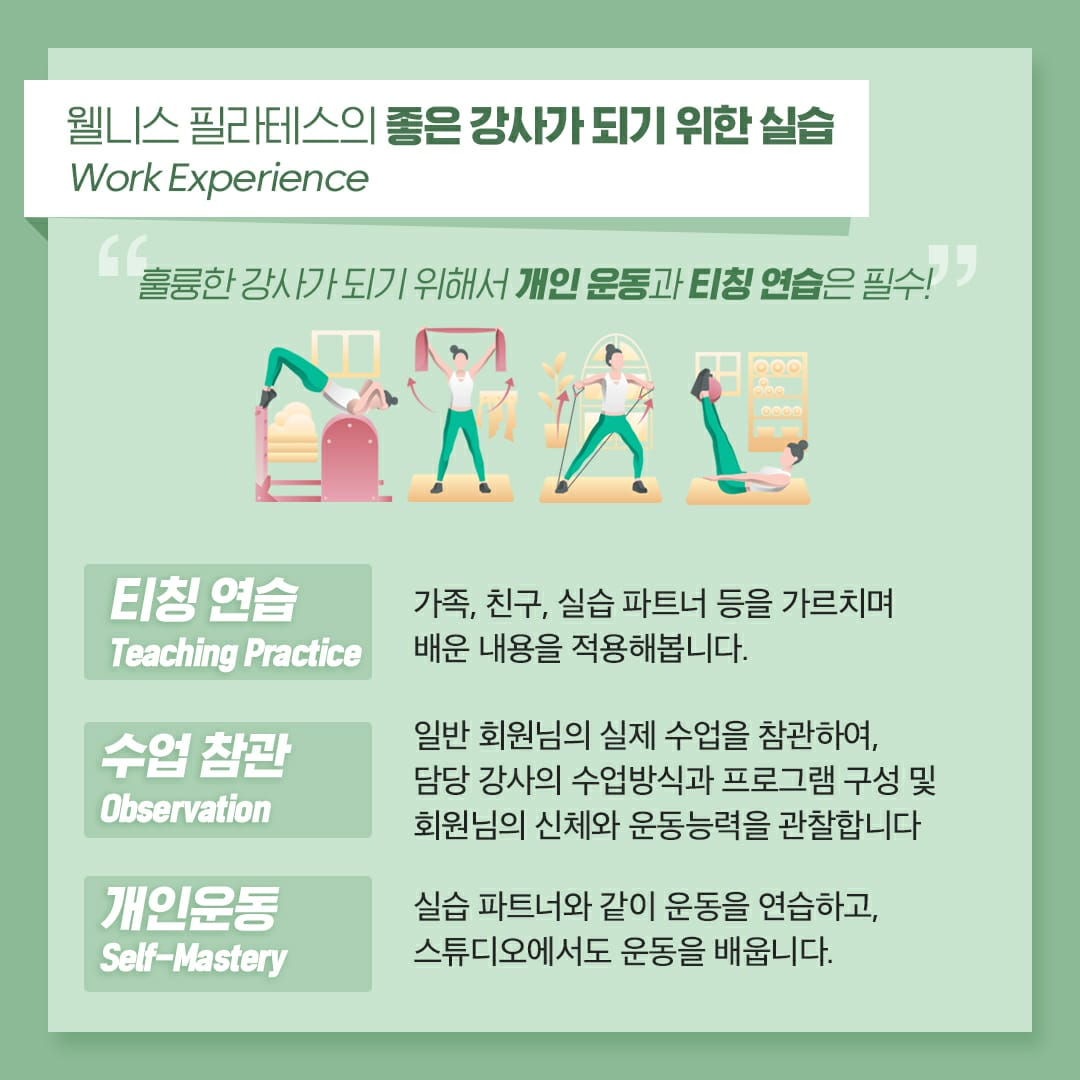
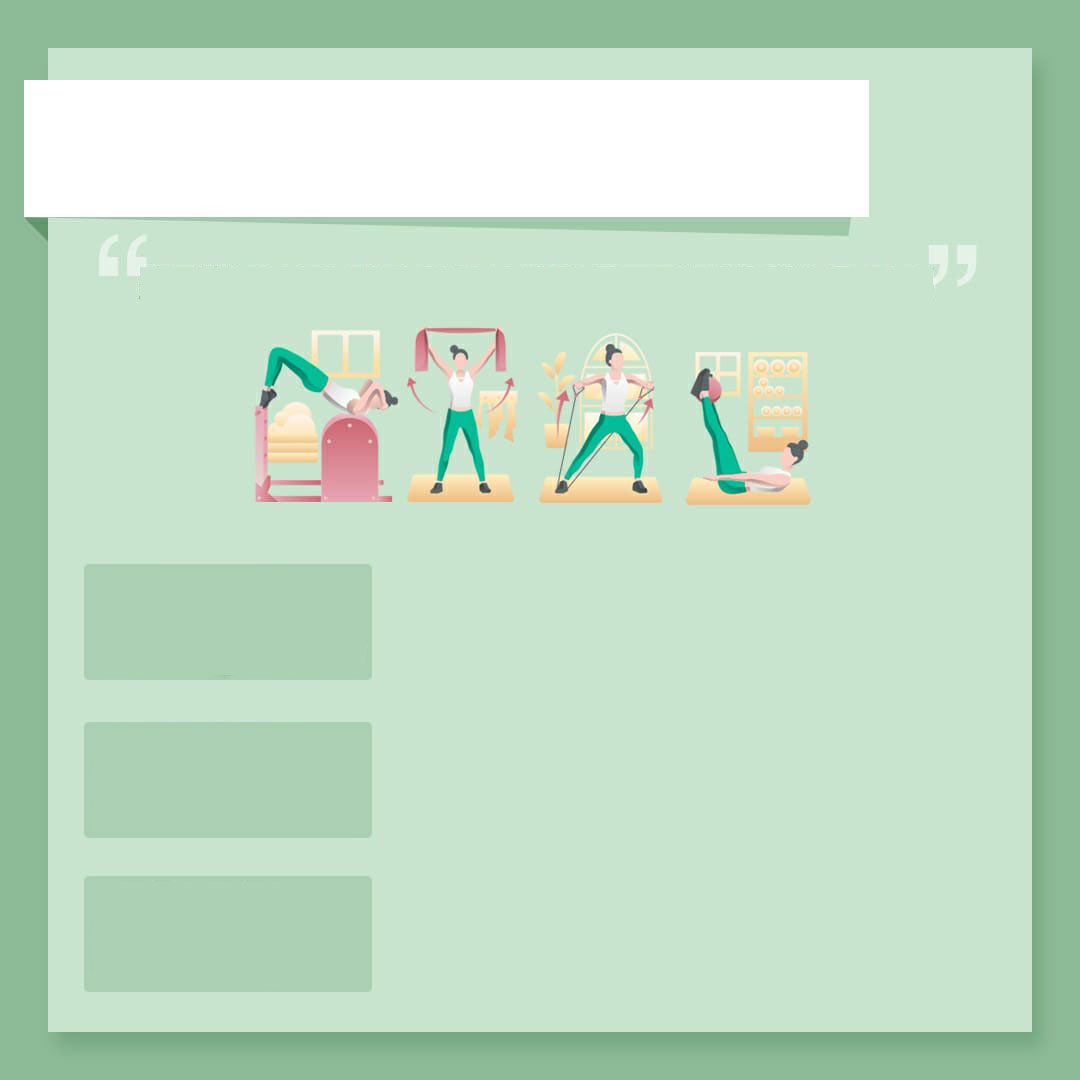
feat: create canvas, display template from template data

diff --git a/client/src/components/Data.js b/client/src/components/Data.js
@@ -2,6 +2,168 @@ const templates = [
   {
     name: "Template 1",
     picture: "template_001.jpeg",
+    element: [
+      {
+        type: "background",
+        filePath: "template_001_edit.jpeg",
+      },
+      {
+        type: "text",
+        text: "이것은 템플릿의 제목입니다",
+        fontFamily: "'Black Han Sans', sans-serif;",
+        fontSize: 40,
+        fontFamily: "",
+        location: {
+          x: 24,
+          y: 36,
+        },
+        zIndex: 200,
+        color: "#43784c",
+      },
+      {
+        type: "text",
+        text: "Work Experience",
+        fontFamily: "'Black Han Sans', sans-serif;",
+        fontSize: 30,
+        fontFamily: "",
+        location: {
+          x: 32,
+          y: 76,
+        },
+        zIndex: 200,
+        color: "#43784c",
+      },
+      {
+        type: "text",
+        text: "이것은 중간에 인용구입니다",
+        fontFamily: "'Black Han Sans', sans-serif;",
+        fontSize: 36,
+        fontFamily: "",
+        location: {
+          x: 100,
+          y: 130,
+        },
+        zIndex: 200,
+        color: "#43784c",
+      },
+      {
+        type: "text",
+        text: "교육 연습",
+        fontFamily: "'Black Han Sans', sans-serif;",
+        fontSize: 38,
+        fontFamily: "",
+        location: {
+          x: 55,
+          y: 305,
+        },
+        zIndex: 200,
+        color: "#FFFFFF",
+      },
+      {
+        type: "text",
+        text: "Teaching Practice",
+        fontFamily: "'Black Han Sans', sans-serif;",
+        fontSize: 18,
+        fontFamily: "",
+        location: {
+          x: 55,
+          y: 350,
+        },
+        zIndex: 200,
+        color: "#FFFFFF",
+      },
+      {
+        type: "text",
+        text: "교육 실습 설명",
+        fontFamily: "'Black Han Sans', sans-serif;",
+        fontSize: 24,
+        fontFamily: "",
+        location: {
+          x: 230,
+          y: 306,
+        },
+        zIndex: 200,
+        color: "#1d291d",
+      },
+      {
+        type: "text",
+        text: "관측",
+        fontFamily: "'Black Han Sans', sans-serif;",
+        fontSize: 38,
+        fontFamily: "",
+        location: {
+          x: 55,
+          y: 395,
+        },
+        zIndex: 200,
+        color: "#FFFFFF",
+      },
+      {
+        type: "text",
+        text: "Observation",
+        fontFamily: "'Black Han Sans', sans-serif;",
+        fontSize: 18,
+        fontFamily: "",
+        location: {
+          x: 55,
+          y: 440,
+        },
+        zIndex: 200,
+        color: "#FFFFFF",
+      },
+      {
+        type: "text",
+        text: "관찰에 대한 설명입니다.",
+        fontFamily: "'Black Han Sans', sans-serif;",
+        fontSize: 24,
+        fontFamily: "",
+        location: {
+          x: 230,
+          y: 396,
+        },
+        zIndex: 200,
+        color: "#1d291d",
+      },
+      {
+        type: "text",
+        text: "자기 숙달",
+        fontFamily: "'Black Han Sans', sans-serif;",
+        fontSize: 38,
+        fontFamily: "",
+        location: {
+          x: 55,
+          y: 480,
+        },
+        zIndex: 200,
+        color: "#FFFFFF",
+      },
+      {
+        type: "text",
+        text: "Self-Mastery",
+        fontFamily: "'Black Han Sans', sans-serif;",
+        fontSize: 18,
+        fontFamily: "",
+        location: {
+          x: 55,
+          y: 525,
+        },
+        zIndex: 200,
+        color: "#FFFFFF",
+      },
+      {
+        type: "text",
+        text: "이것은 자기 숙달을위한 텍스트입니다.",
+        fontFamily: "'Black Han Sans', sans-serif;",
+        fontSize: 24,
+        fontFamily: "",
+        location: {
+          x: 230,
+          y: 486,
+        },
+        zIndex: 200,
+        color: "#1d291d",
+      },
+    ],
   },
   {
     name: "Template 2",

diff --git a/client/src/components/Canvas.js b/client/src/components/Canvas.js
@@ -5,15 +5,55 @@ import { useStateValue } from "../utils/StateProvider";
 
 function Canvas() {
   const [{ template }, dispatch] = useStateValue();
+  console.log(template);
 
   return (
     <div className="Canvas">
       <Navbar />
       <div className="container">
-        <h1>{template[0].title}</h1>
+        <h1>{template[0].name}</h1>
         <div className="row">
-          <div className="Canvas__layout bg-secondary">display</div>
-          <div className="Canvas__edit bg-secondary">edit layer</div>
+          <div className="Canvas__layout bg-secondary">
+            {/* display background */}
+            {template[0].element
+              .filter((item, index) => {
+                return item.type === "background";
+              })
+              .map((item) => {
+                return (
+                  <img
+                    className="Canvas__background"
+                    src={`${process.env.PUBLIC_URL}/templates/` + item.filePath}
+                    alt=""
+                  />
+                );
+              })}
+            {/* display text */}
+            {template[0].element
+              .filter((item, index) => {
+                return item.type === "text";
+              })
+              .map((item) => {
+                return (
+                  <div
+                    className="Canvas__text"
+                    style={{
+                      fontFamily: item.fontFamily,
+                      fontSize: item.fontSize,
+                      zIndex: item.zIndex,
+                      left: item.location.x,
+                      top: item.location.y,
+                      color: item.color,
+                    }}
+                  >
+                    {item.text}
+                  </div>
+                );
+              })}
+          </div>
+          <div className="Canvas__edit d-flex flex-column bg-secondary">
+            <div className="bg-primary text-light text-center">Edit</div>
+          </div>
         </div>
       </div>
     </div>

diff --git a/client/src/components/CardTemplate.js b/client/src/components/CardTemplate.js
@@ -2,7 +2,7 @@ import React, { useState } from "react";
 import { useHistory } from "react-router-dom";
 import { useStateValue } from "../utils/StateProvider";
 
-const CardTemplate = ({ title, imageName }) => {
+const CardTemplate = ({ name, picture, element }) => {
   const [{ template }, dispatch] = useStateValue();
 
   // const [title, setTitle] = useState(props.title);
@@ -14,23 +14,24 @@ const CardTemplate = ({ title, imageName }) => {
     dispatch({
       type: "REPLACE_TO_TEMPLATE",
       item: {
-        title: title,
-        imageName: imageName,
+        name: name,
+        picture: picture,
+        element: element,
       },
     });
 
-    // history.push("/canvas");
+    history.push("/canvas");
   };
 
   return (
     <div className="Card card mt-3">
       <img
         className="card-img-top"
-        src={`${process.env.PUBLIC_URL}/templates/` + imageName}
+        src={`${process.env.PUBLIC_URL}/templates/` + picture}
         alt="Card image"
       />
       <div className="card-body">
-        <h5 className="card-title">{title}</h5>
+        <h5 className="card-title">{name}</h5>
         <div className="btn btn-primary" onClick={handleCreateClick}>
           Create Ad.
         </div>

diff --git a/client/src/components/MainTemplate.js b/client/src/components/MainTemplate.js
@@ -24,7 +24,11 @@ function MainTemplate() {
         <div className="row">
           {templates.map((item, index) => (
             <div key={index} className="col-6 col-md-3">
-              <CardTemplate title={item.name} imageName={item.picture} />
+              <CardTemplate
+                name={item.name}
+                picture={item.picture}
+                element={item.element}
+              />
             </div>
           ))}
         </div>

diff --git a/client/public/index.html b/client/public/index.html
@@ -29,6 +29,10 @@
     integrity="sha384-Gn5384xqQ1aoWXA+058RXPxPg6fy4IWvTNh0E263XmFcJlSAwiGgFAW/dAiS6JXm" crossorigin="anonymous">
 
 
+  <!-- add font from google -->
+  <link rel="preconnect" href="https://fonts.gstatic.com">
+  <link href="https://fonts.googleapis.com/css2?family=Black+Han+Sans&display=swap" rel="stylesheet">
+
 </head>
 
 <body>

diff --git a/client/src/components/Canvas.css b/client/src/components/Canvas.css
@@ -7,7 +7,20 @@ body {
 .Canvas__layout {
   height: 600px;
   width: 600px;
+  position: relative;
 }
 .Canvas__edit {
   width: 300px;
+}
+
+.Canvas__background {
+  height: 600px;
+  width: 600px;
+  z-index: 100;
+  position: absolute;
+}
+
+.Canvas__text {
+  position: absolute;
+  z-index: 200;
 }
